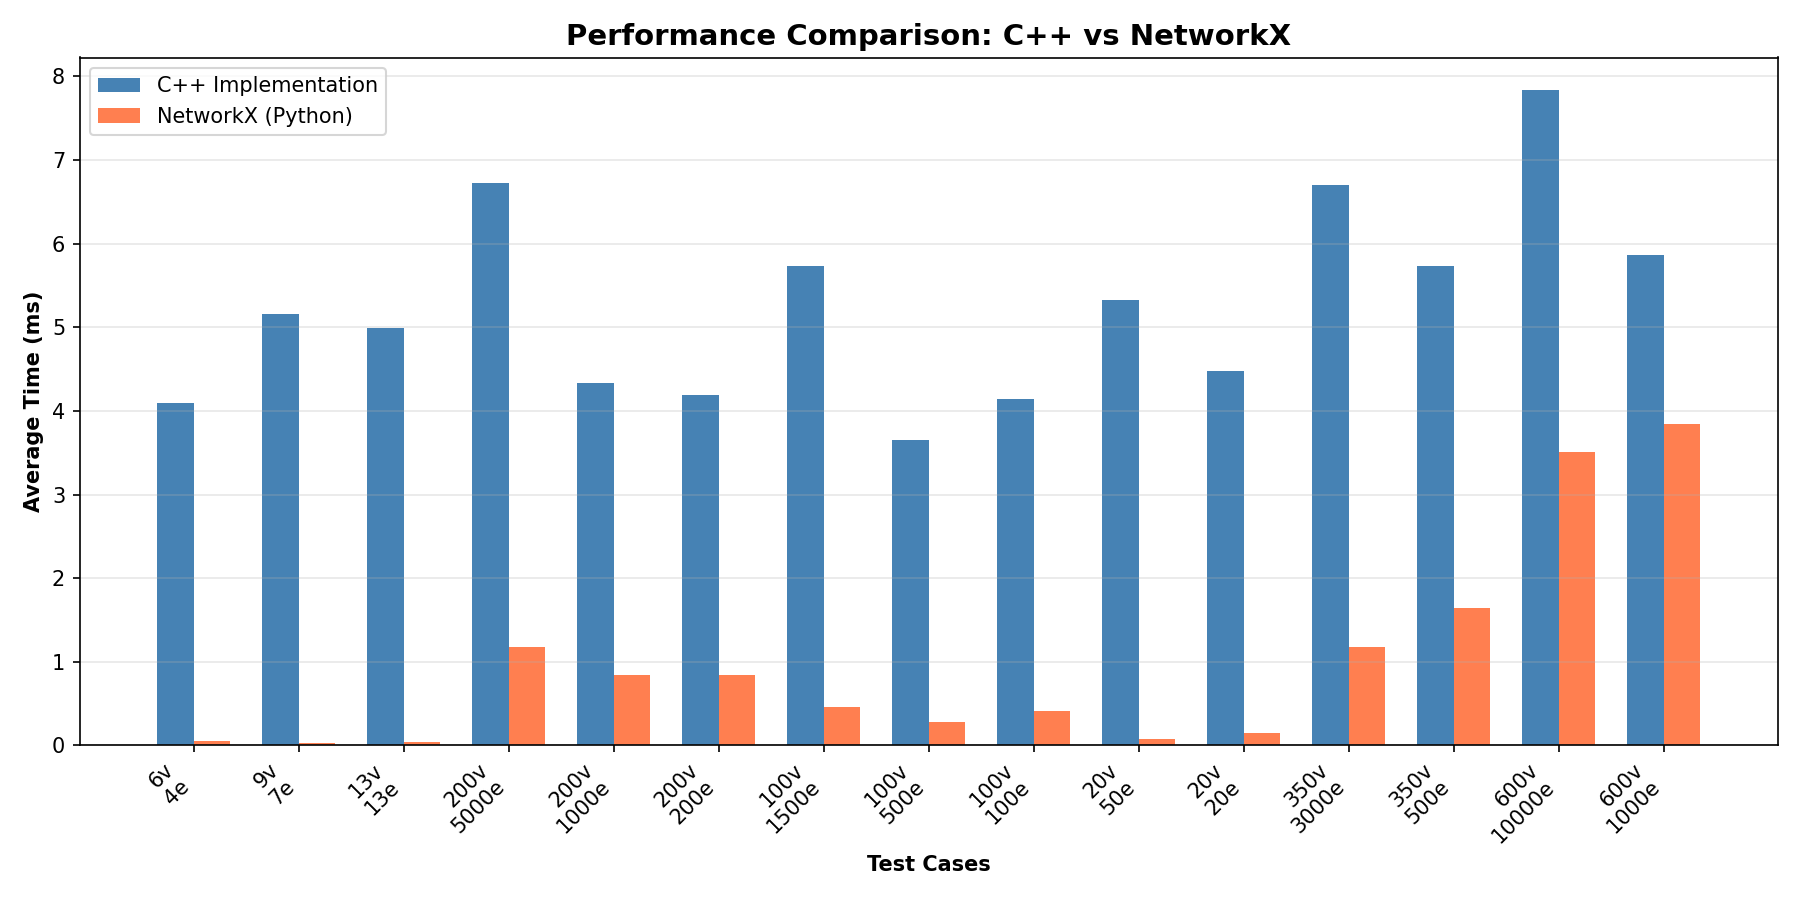
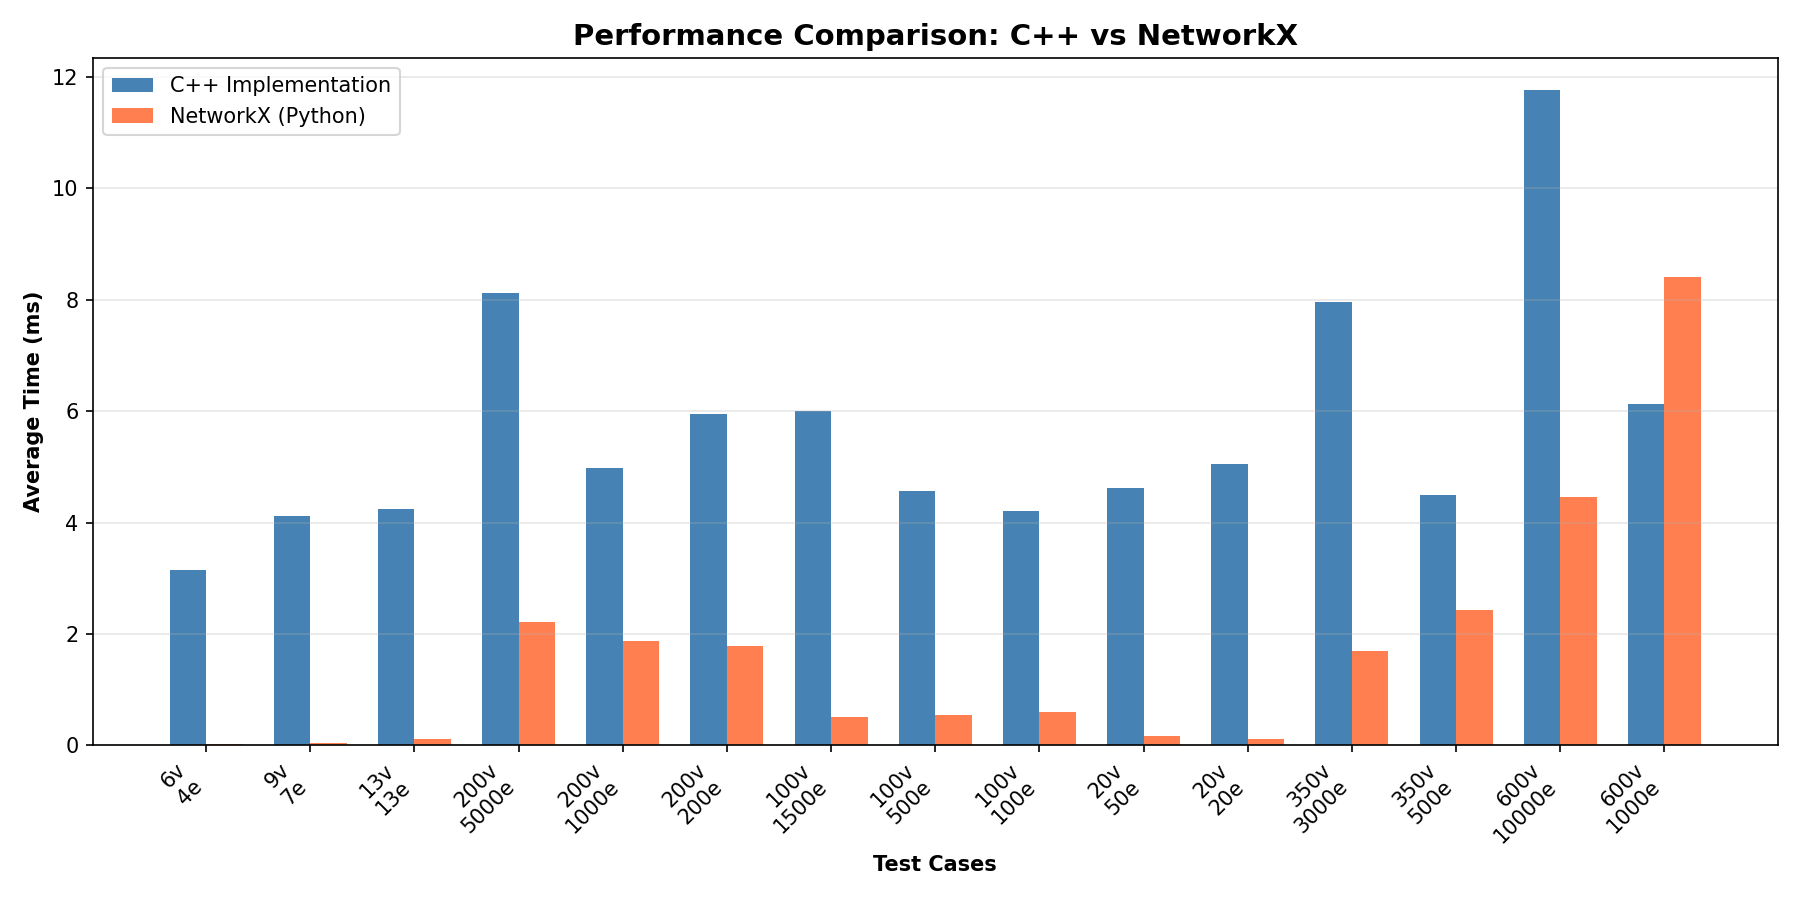
feat: Add scripts for running tests & benchmark fix: Validation using exact formula

diff --git a/scripts/verify.py b/scripts/verify.py
@@ -32,13 +32,13 @@ def read_graph_from_file(filename: str) -> Dict[str, any]:
 
 
 def networkx_mis_size(graph_data: Dict[str, any]) -> int:
-    """Calculate MIS size using NetworkX approximation algorithm.
+    """Calculate exact MIS size using NetworkX maximum matching and König's theorem.
     
     Args:
         graph_data: Dictionary with nU, nW, and edges.
         
     Returns:
-        Size of the maximum independent set.
+        Size of the maximum independent set (exact).
     """
     G = nx.Graph()
     nU = graph_data['nU']
@@ -53,9 +53,14 @@ def networkx_mis_size(graph_data: Dict[str, any]) -> int:
     for u, w in graph_data['edges']:
         G.add_edge(f'U{u}', f'W{w}')
     
-    mis = nx.algorithms.approximation.maximum_independent_set(G)
+    from networkx.algorithms import bipartite
+    matching = bipartite.maximum_matching(G, top_nodes=set(U_nodes))
+    max_matching_size = len(matching) // 2
     
-    return len(mis)
+    # König's theorem: MIS size = Total vertices - Maximum matching size
+    mis_size = nU + nW - max_matching_size
+    
+    return mis_size
 
 
 def cpp_mis_size(filename: str, executable: str = './build/min_vertex_cover') -> Optional[int]:
@@ -91,7 +96,7 @@ def verify_file(filename: str) -> bool:
     Returns:
         True if verification passed, False otherwise.
     """
-    print(f"Verifying {filename}...", end=' ')
+    print(f"Verifying {filename}...", end=' ', flush=True)
     
     graph_data = read_graph_from_file(filename)
     
@@ -99,14 +104,15 @@ def verify_file(filename: str) -> bool:
     cpp_size = cpp_mis_size(filename)
     
     if cpp_size is None:
-        print("FAIL (C++ execution error)")
+        print("FAIL (C++ execution error)", flush=True)
         return False
     
-    if nx_size == cpp_size:
-        print(f"PASS (MIS size: {cpp_size})")
+    # Both algorithms should give exact same result (König's theorem)
+    if cpp_size == nx_size:
+        print(f"PASS (MIS size: {cpp_size})", flush=True)
         return True
     else:
-        print(f"FAIL (Expected: {nx_size}, Got: {cpp_size})")
+        print(f"FAIL (C++ found {cpp_size}, NetworkX found {nx_size})", flush=True)
         return False
 
 
@@ -125,8 +131,13 @@ def main() -> int:
     passed = 0
     failed = 0
     
+    test_files = sys.argv[1:]
+    passed = 0
+    failed = 0
+    
     print("="*70)
-    print("Verification Against NetworkX")
+    print("Verification Against NetworkX (Exact Algorithm)")
+    print("Both implementations use König's theorem for exact MIS")
     print("="*70)
     print()
     
